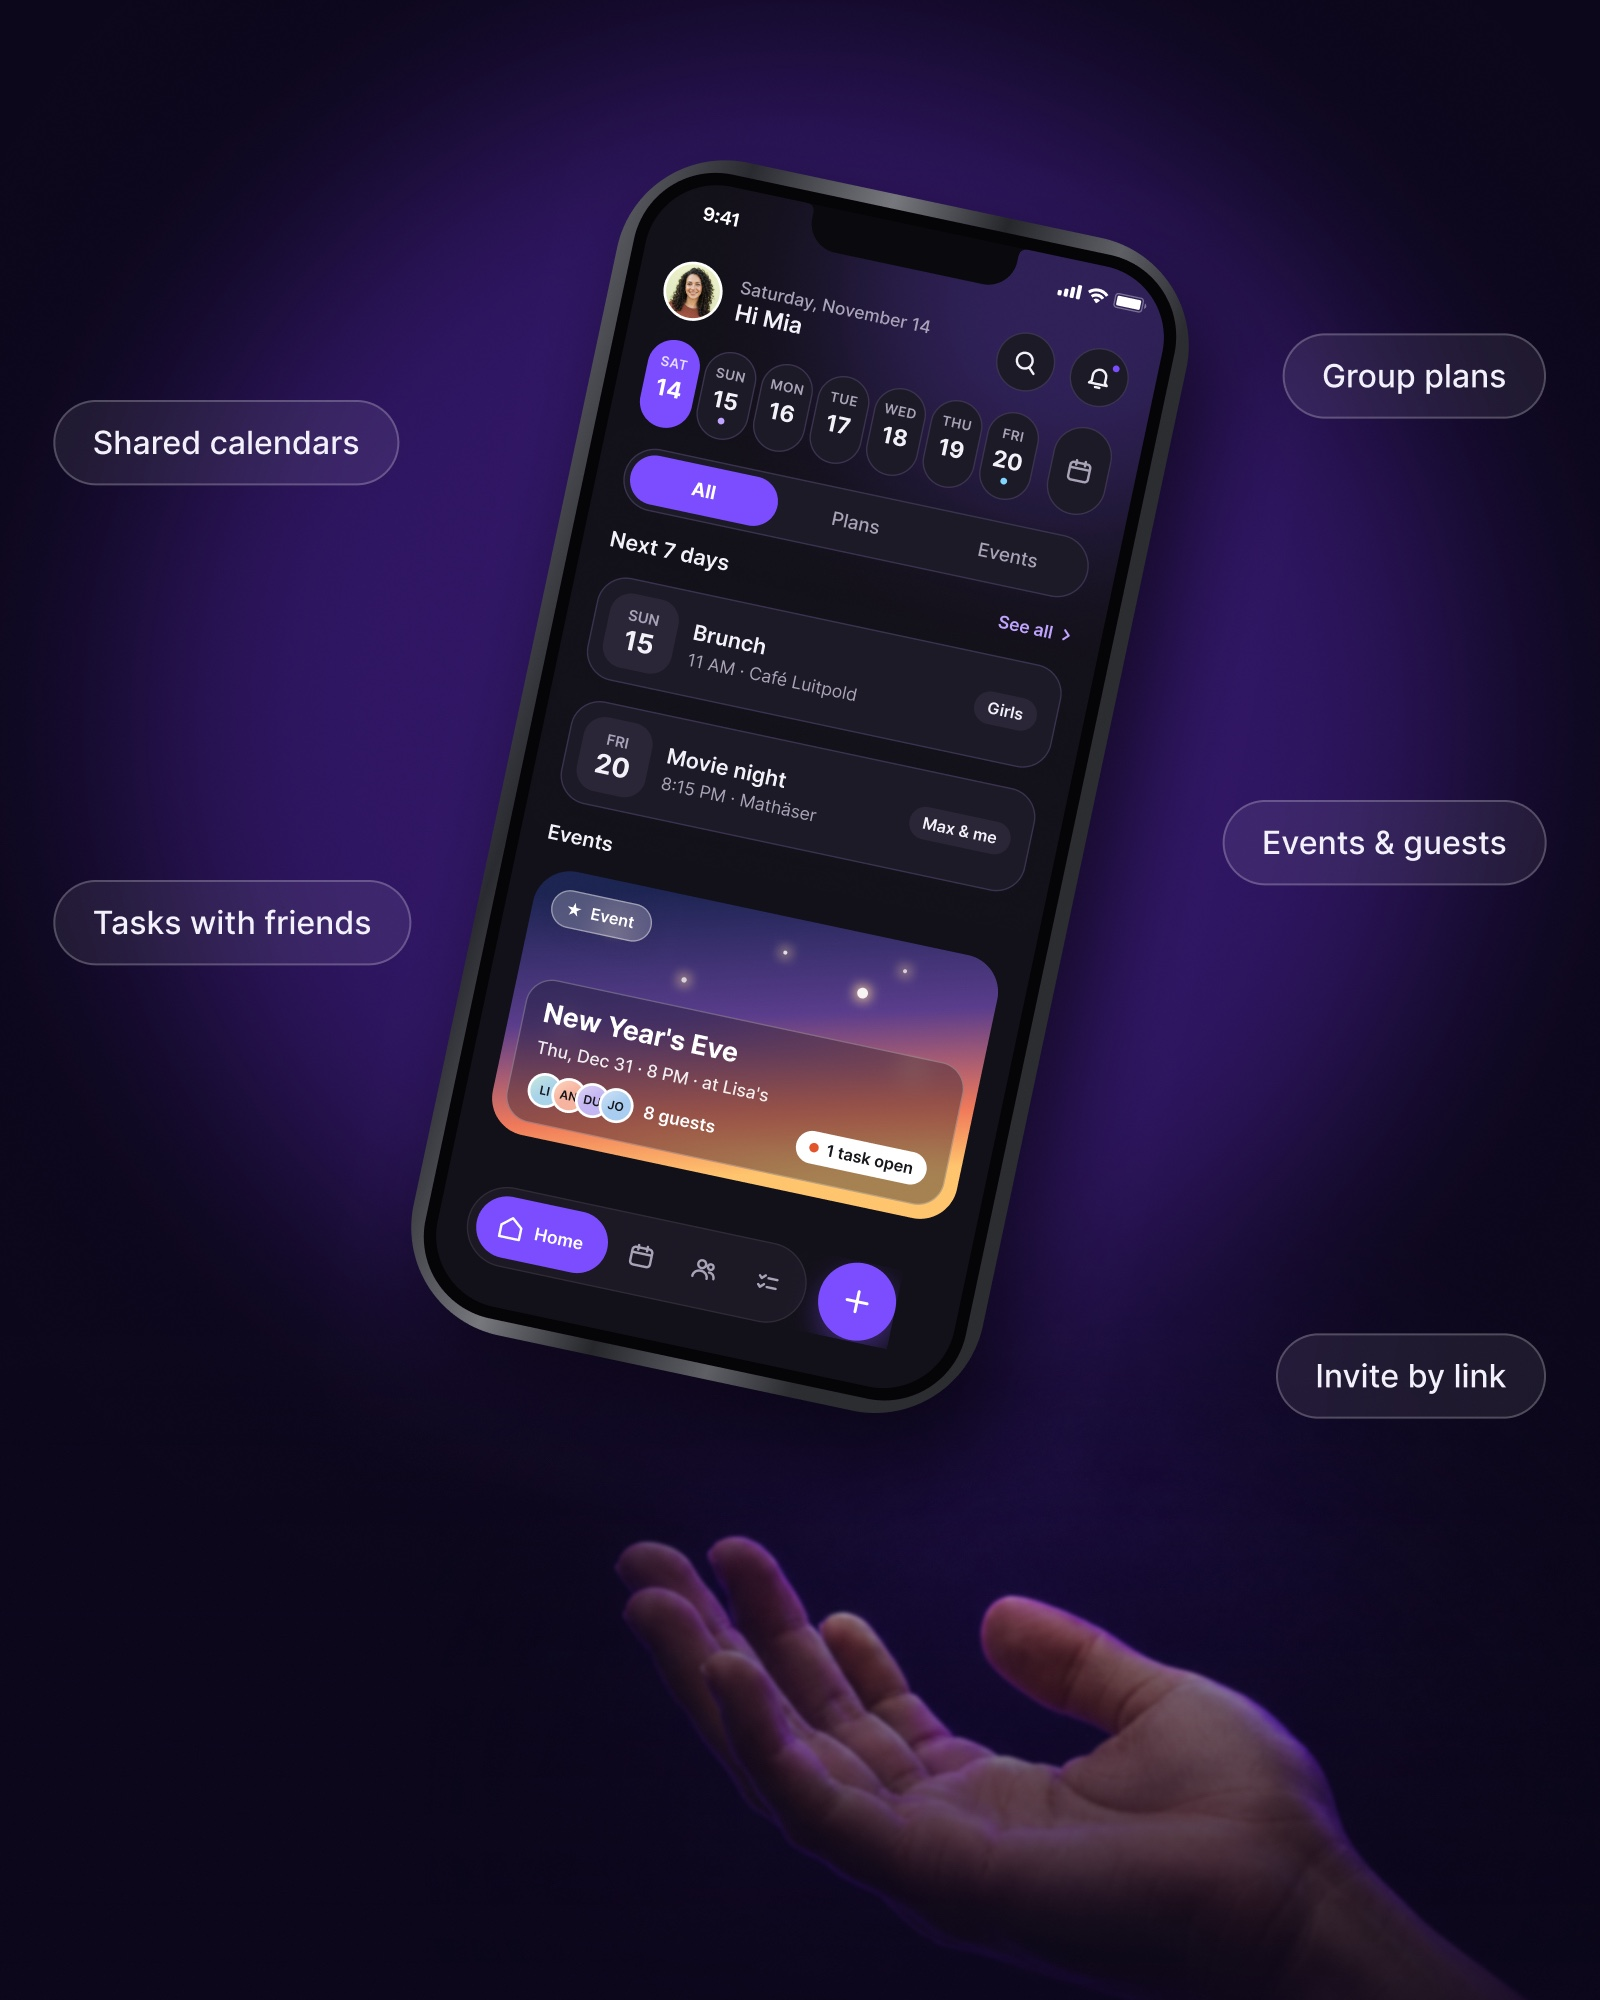
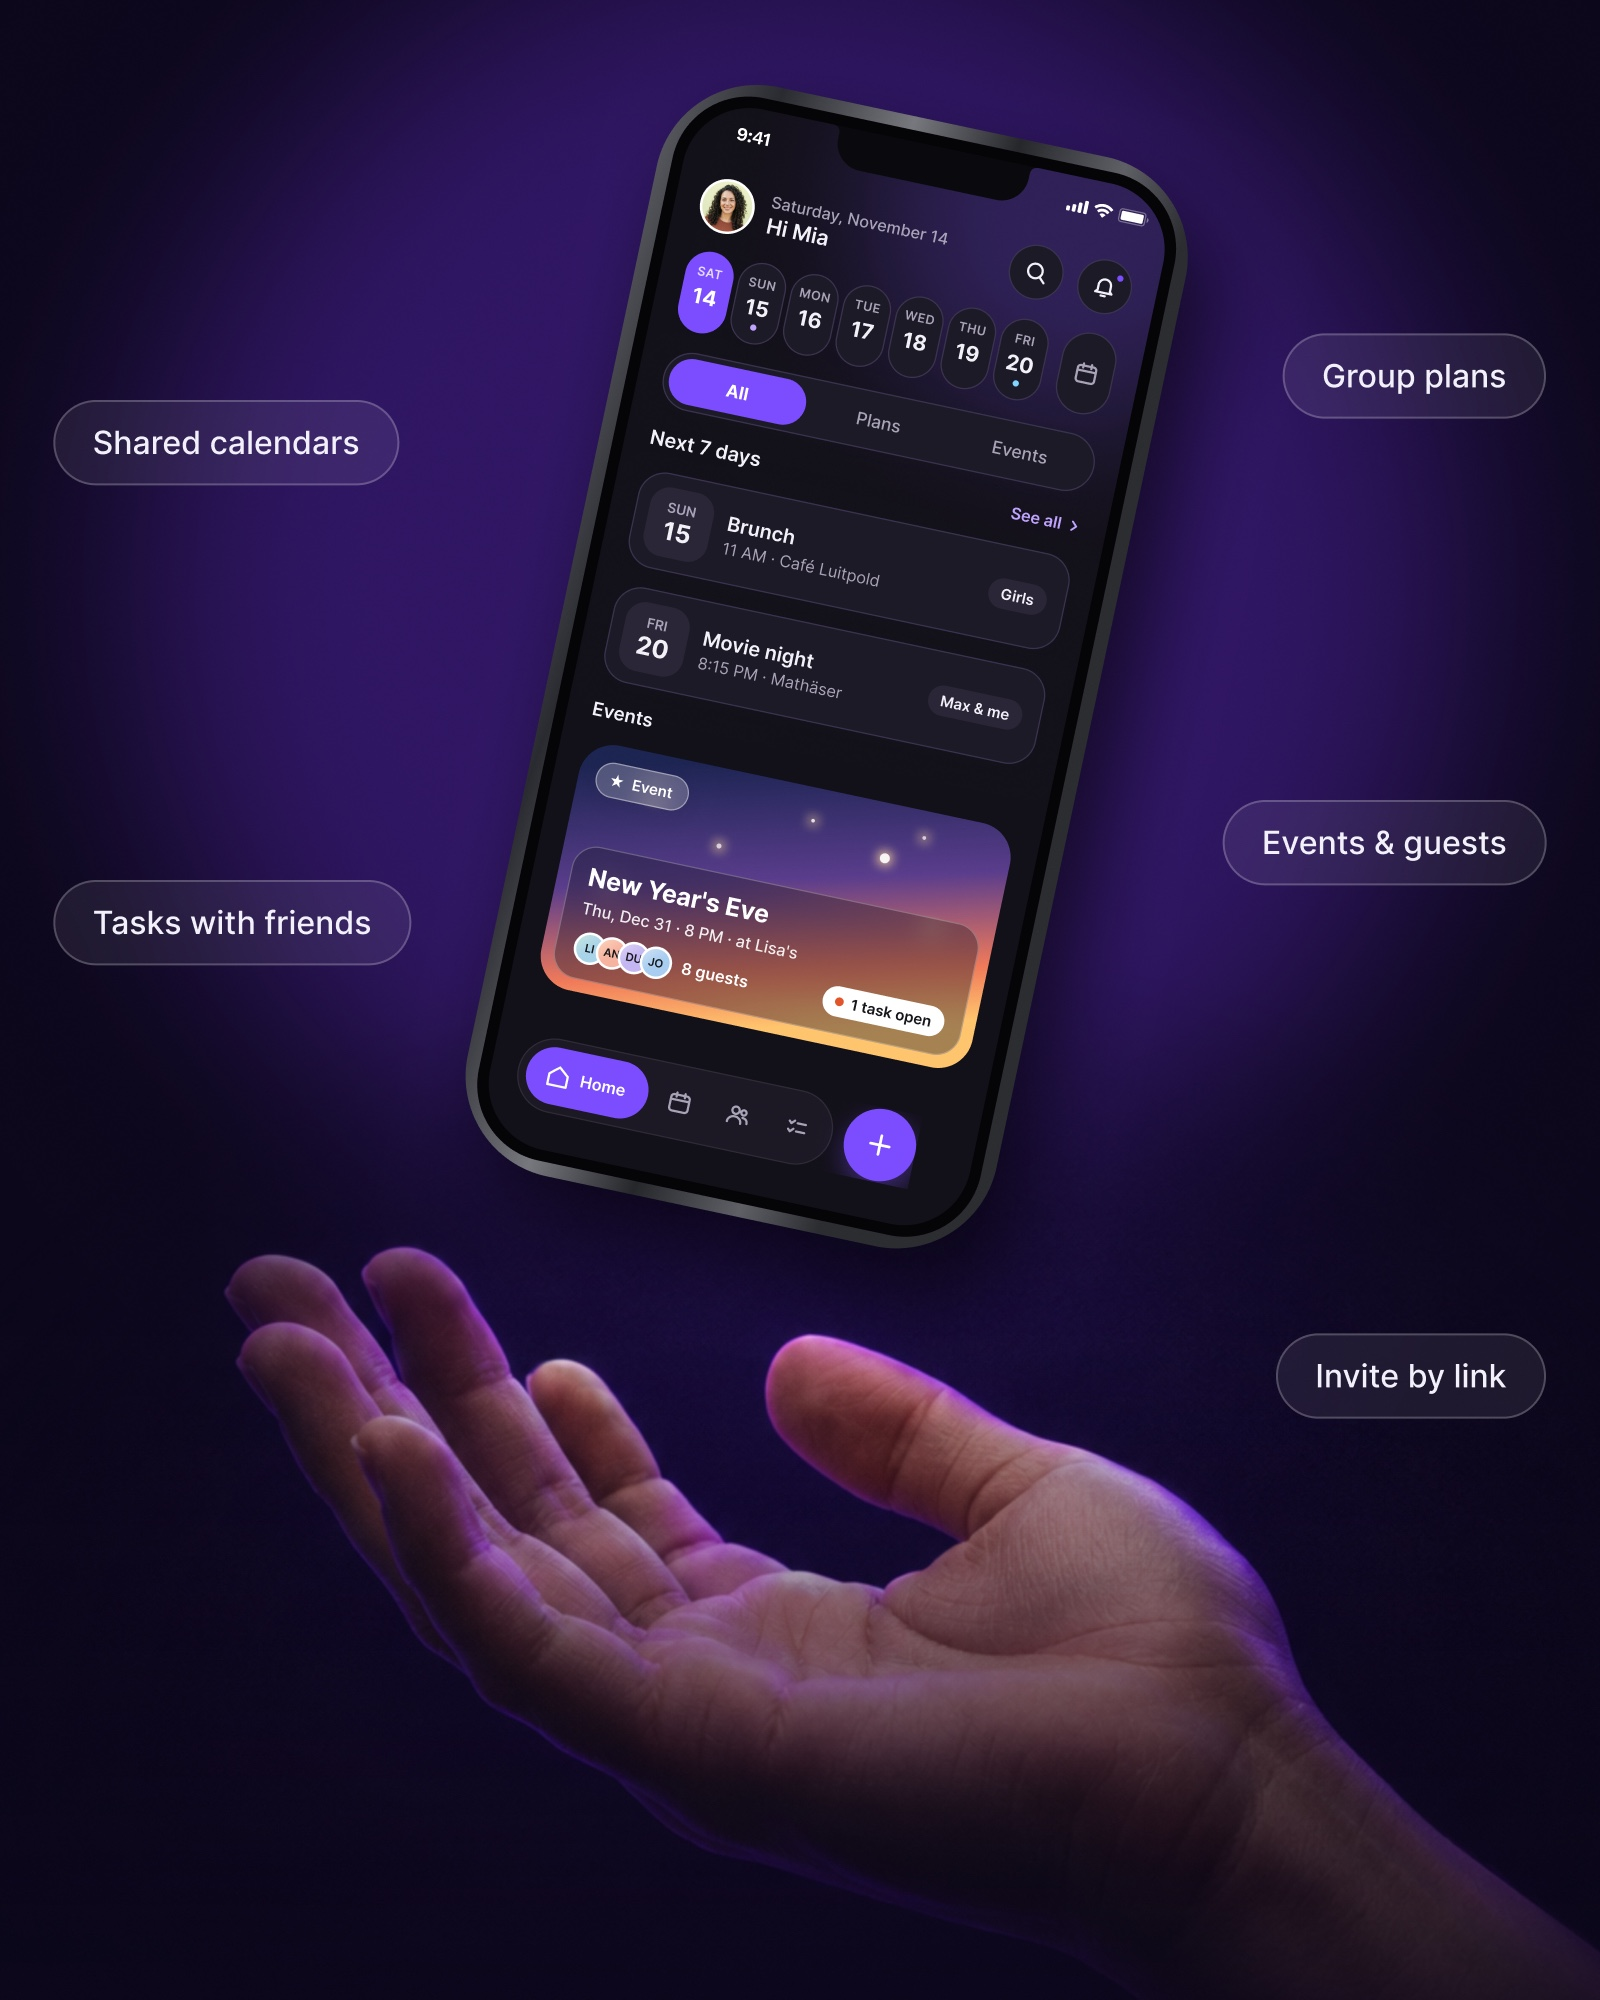
sync.-Titelbild: größere Hand, Handy direkt darüber

Changed region(s): [[0.125, 0.0, 1.0, 0.992], [0.6875, 0.527, 0.8125, 0.62], [0.5938, 0.341, 0.625, 0.372]]

diff --git a/projekte.html b/projekte.html
@@ -50,7 +50,7 @@
     <li class="pj-item">
       <article class="pj-card pj-reveal pj-soon" tabindex="0" aria-labelledby="pjSync" aria-describedby="pjSoon">
         <span class="pj-media">
-          <img src="media/projekte/cover-sync.jpg?v=4" width="1600" height="2000" decoding="async" alt="Groß im Bild ein iPhone mit sync., darunter angedeutet eine offene Hand: die Übersicht mit Wochenleiste, Brunch, Movie night und New Year’s Eve. Daneben die Begriffe Shared calendars, Group plans, Events & guests, Tasks with friends und Invite by link.">
+          <img src="media/projekte/cover-sync.jpg?v=5" width="1600" height="2000" decoding="async" alt="Ein iPhone mit sync. schwebt knapp über einer offenen Hand: die Übersicht mit Wochenleiste, Brunch, Movie night und New Year’s Eve. Daneben die Begriffe Shared calendars, Group plans, Events & guests, Tasks with friends und Invite by link.">
           <span class="pj-veil" id="pjSoon">
             <span class="pj-veil-n" id="pjSync">sync.</span>
             <span class="pj-veil-t">( in progress )</span>

diff --git a/projekte-en.html b/projekte-en.html
@@ -50,7 +50,7 @@
     <li class="pj-item">
       <article class="pj-card pj-reveal pj-soon" tabindex="0" aria-labelledby="pjSync" aria-describedby="pjSoon">
         <span class="pj-media">
-          <img src="media/projekte/cover-sync.jpg?v=4" width="1600" height="2000" decoding="async" alt="A large iPhone running sync., with an open hand faintly below: the home screen with a week strip, brunch, a movie night and New Year’s Eve. Around it: Shared calendars, Group plans, Events & guests, Tasks with friends and Invite by link.">
+          <img src="media/projekte/cover-sync.jpg?v=5" width="1600" height="2000" decoding="async" alt="An iPhone running sync. hovers just above an open hand: the home screen with a week strip, brunch, a movie night and New Year’s Eve. Around it: Shared calendars, Group plans, Events & guests, Tasks with friends and Invite by link.">
           <span class="pj-veil" id="pjSoon">
             <span class="pj-veil-n" id="pjSync">sync.</span>
             <span class="pj-veil-t">( in progress )</span>
